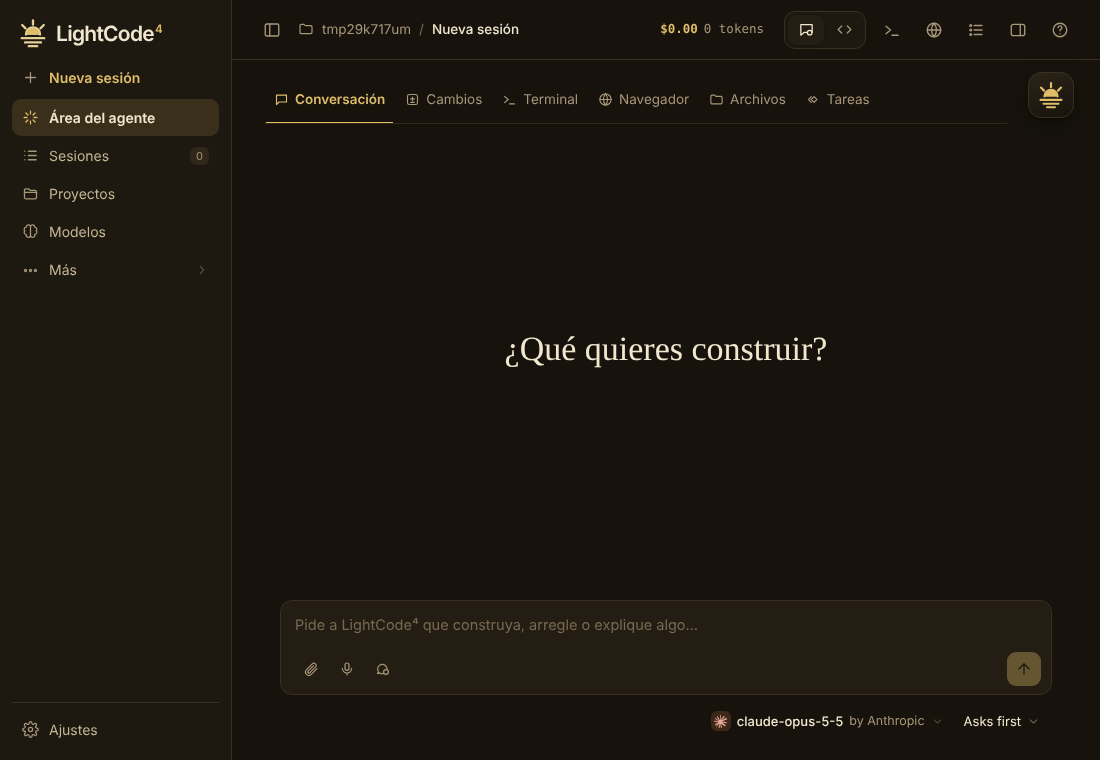
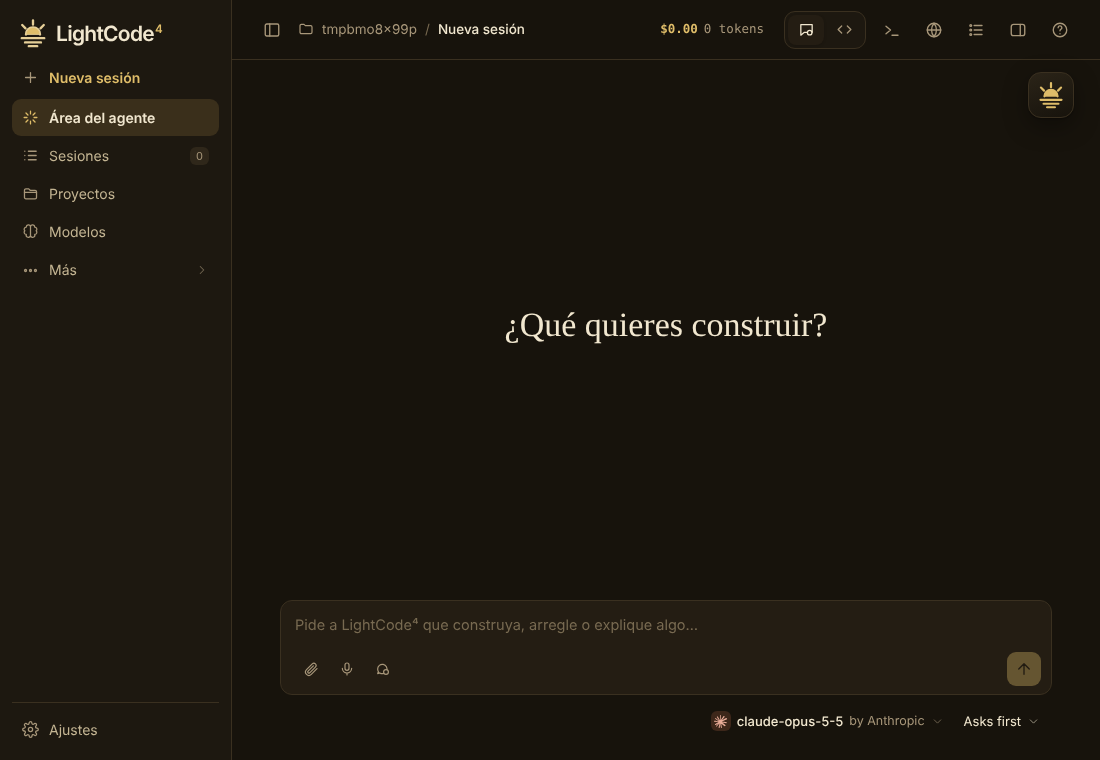
Side panel like the Claude app: conversation stays on the left, Changes/Terminal/Browser/Files/Tasks open in a resizable panel on the right with its own tabs and close button; ⌘. toggles it; first diff shown right away; tidy empty states
Claude-Session: https://claude.ai/code/session_01AvqsqpDFjBC8YmDhkXMhAb

diff --git a/myagent/static/index.html b/myagent/static/index.html
@@ -415,7 +415,7 @@ body:not(.chatting) #scroll { display: none; } body.chatting #welcome { display:
 body:not(.chatting) #dock, #dock { display: flex; }
 #scroll { flex: 1; } .col { max-width: 900px; padding: 0 22px; }
 #panel { display: none; flex: 1; min-height: 0; flex-direction: column; width: auto; max-width: none; min-width: 0; border-left: 0; position: static; }
-body.panel-open #panel { display: flex; } body.panel-open #scroll, body.panel-open #welcome { display: none !important; }
+body.panel-open #panel { display: flex; }
 #dock { border-top: 1px solid var(--line); padding: 12px 16px 10px; flex-direction: column; align-items: stretch; gap: 6px; }
 .composer { max-width: none; border-radius: 12px; box-shadow: none; }
 .send { border-radius: 9px; }
@@ -691,6 +691,28 @@ body.models-open #modelsView { display: block !important; }
 .chips { display: none !important; }
 #welcome .empty { font-size: 34px; }
 #dock { border-top: 0 !important; }
+/* ---- side panel beside the conversation (Claude app layout) ---- */
+body.panel-open .grid { grid-template-columns: minmax(380px, 1fr) var(--pw, 46%); gap: 0; }
+.grid > #panel { display: none; flex-direction: column; min-width: 0; min-height: 0; position: relative; background: var(--panel); border: 1px solid var(--line); border-radius: 16px; overflow: hidden; margin: 6px 0 4px 12px; box-shadow: var(--shadow); }
+body.panel-open .grid > #panel { display: flex; }
+.grid > #panel > .ptabs { display: flex; align-items: center; gap: 2px; padding: 6px 6px 0 10px; border-bottom: 1px solid var(--line-soft); min-height: 46px; overflow-x: auto; scrollbar-width: none; }
+.grid > #panel > .ptabs::-webkit-scrollbar { display: none; }
+.ptabs .tab { flex: none; border: 0; background: none; padding: 8px 10px 9px; font-size: 13px; color: var(--muted); border-bottom: 2px solid transparent; display: flex; gap: 6px; align-items: center; border-radius: 8px 8px 0 0; }
+.ptabs .tab:hover { color: var(--text); background: var(--hover); } .ptabs .tab.on { color: var(--text); border-bottom-color: var(--accent); font-weight: 600; }
+.ptabs .tab svg { width: 15px; height: 15px; } .ptabs .tab em { font-style: normal; font-size: 10.5px; background: var(--line-soft); border-radius: 5px; padding: 0 5px; color: var(--muted); } .ptabs .tab em:empty { display: none; }
+.ptabs #jobCount { background: var(--sun); color: #2b2418; }
+.ptabs #closePanel { margin: 0 2px 4px 4px; flex: none; }
+.grid > #panel > #resizer { position: absolute; left: 0; top: 0; bottom: 0; width: 6px; cursor: col-resize; z-index: 4; }
+.grid > #panel > #resizer:hover, .grid > #panel > #resizer.drag { background: color-mix(in srgb, var(--accent) 35%, transparent); }
+.grid > #panel .pview { flex: 1; min-height: 0; }
+.pempty { flex: 1; display: flex; flex-direction: column; align-items: center; justify-content: center; gap: 6px; padding: 40px 24px; text-align: center; color: var(--muted); }
+.pempty svg { width: 30px; height: 30px; color: var(--faint); margin-bottom: 4px; } .pempty b { color: var(--text); font-size: 14px; font-weight: 600; } .pempty span { font-size: 12.5px; max-width: 300px; line-height: 1.5; }
+body.panel-open #railDock { display: none; }
+body:not(.panel-open) #scroll { padding-right: 58px; }  /* keeps messages clear of the sun button */  /* the panel takes that corner; the overview is back when it closes */
+.grid > #panel .gitbar { flex-wrap: nowrap; gap: 6px; overflow-x: auto; scrollbar-width: none; padding: 8px 10px; }
+.grid > #panel .gitbar::-webkit-scrollbar { display: none; } .grid > #panel .gitbar > * { flex: none; }
+.grid > #panel #gitSync { font-size: 11.5px !important; }
+@media (max-width: 900px) { body.panel-open .grid { grid-template-columns: 1fr; } body.panel-open .chatcard { display: none; } .grid > #panel { margin: 6px 0; } }
 #ctxMeter:not([hidden]) + #send { margin-left: 6px; }
 #side .who { display: none; } #side .who:has(.dot.off) { display: flex; }
 #compbar { display: flex; justify-content: flex-end; align-items: center; gap: 6px; padding: 6px 4px 0; position: relative; }
@@ -872,14 +894,9 @@ body.models-open #modelsView { display: block !important; }
           <span class="spacer"></span><span class="status" id="chatStatus">Ready</span>
 <button class="iconbtn" id="shareBtn" title="Share this session (GitHub gist)" aria-label="Share"><svg viewBox="0 0 24 24"><path d="M4 12v7a2 2 0 0 0 2 2h12a2 2 0 0 0 2-2v-7M16 6l-4-4-4 4M12 2v13"/></svg></button>
           <button class="iconbtn" id="exportBtn" title="Export conversation" aria-label="Export conversation"><svg viewBox="0 0 24 24"><path d="M12 3v12M7 10l5 5 5-5M5 21h14"/></svg></button></div>
-        <nav class="ctabs" role="tablist">
-          <button class="ctab on" data-c="chat"><svg viewBox="0 0 24 24"><path d="M4 5h16v11H8l-4 4z"/></svg>Conversation</button>
-          <button class="ctab" data-c="git"><svg viewBox="0 0 24 24"><rect x="4" y="4" width="16" height="16" rx="3"/><path d="M12 8v6M9 11h6M9 16.5h6"/></svg>Changes<em id="fileCount"></em></button>
-          <button class="ctab" data-c="term"><svg><use href="#i-term"/></svg>Terminal</button>
-          <button class="ctab" data-c="browser"><svg><use href="#i-globe"/></svg>Browser</button>
-          <button class="ctab" data-c="files"><svg><use href="#i-folder"/></svg>Files</button>
-          <button class="ctab" data-c="tasks"><svg viewBox="0 0 24 24"><path d="M8.5 12 13 7.5 17.5 12 13 16.5zM4 12l4.5-4.5M4 12l4.5 4.5"/></svg>Tasks<em id="jobCount" hidden></em></button>
-          <span class="spacer"></span>
+        <nav class="ctabs" role="tablist" hidden>
+          <button class="ctab on" data-c="chat">Conversation</button><button class="ctab" data-c="git">Changes</button><button class="ctab" data-c="term">Terminal</button>
+          <button class="ctab" data-c="browser">Browser</button><button class="ctab" data-c="files">Files</button><button class="ctab" data-c="tasks">Tasks</button>
         </nav>
         <div class="cbody">
           <section id="welcome">
@@ -889,45 +906,6 @@ body.models-open #modelsView { display: block !important; }
             </div>
           </section>
           <div id="scroll"><div class="col"><div id="log" role="log" aria-live="polite" aria-label="Conversation"></div></div></div>
-          <section id="panel">
-            <div class="ptabs" hidden>
-              <button class="tab" data-v="term">Terminal</button><button class="tab" data-v="browser">Browser</button><button class="tab" data-v="git">Git</button>
-              <button class="iconbtn" id="closePanel" aria-label="Close"><svg><use href="#i-x"/></svg></button>
-            </div>
-            <div id="resizer" hidden></div>
-  <div class="pview" data-v="term">
-    <div class="termbar"><span id="termInfo">Terminal</span><span class="spacer"></span><button class="btn small" id="termRestart">New terminal</button></div>
-    <div id="termBox"></div>
-  </div>
-  <div class="pview" data-v="git"><div id="gitView">
-    <div class="gitbar"><select id="gitBranch" title="Switch branch"></select><button class="btn small" id="gitNewBranch">New branch</button>
-      <span class="spacer"></span><span id="gitSync" style="color:var(--muted);font-size:12.5px"></span>
-      <button class="btn small" id="gitPull">Pull</button><button class="btn small" id="gitPush">Push</button><button class="btn small" id="gitPr">Pull request</button>
-      <button class="iconbtn" id="gitRefresh" title="Refresh"><svg viewBox="0 0 24 24"><path d="M20 12a8 8 0 1 1-2.3-5.6M20 4v5h-5"/></svg></button></div>
-    <div id="gitFiles"></div>
-    <pre id="gitDiff">Select a file to see its changes.</pre>
-    <div class="gitcommit"><textarea id="gitMsg" placeholder="Commit message (or ask the agent: /commit)"></textarea><button class="btn primary" id="gitCommit">Commit all</button></div>
-  </div></div>
-  <div class="pview" data-v="files"><div id="filesView">
-    <div class="fbar"><span id="fCrumbs"></span><span class="spacer"></span><span class="livedot" title="Updates as the agent works">Live</span>
-      <button class="iconbtn" id="fRefresh" title="Refresh"><svg viewBox="0 0 24 24"><path d="M20 12a8 8 0 1 1-2.3-5.6M20 4v5h-5"/></svg></button></div>
-    <div class="fsplit"><div id="fTree"></div><div id="fShow"><div class="fhead"><b id="fName">Select a file</b><small id="fMeta"></small><span class="spacer"></span><button class="btn small" id="fEditBtn" hidden>Edit</button><button class="btn small" id="fCancel" hidden>Cancel</button><button class="btn small primary" id="fSave" hidden>Save</button></div><pre id="fBody"></pre><textarea id="fEdit" spellcheck="false" hidden></textarea><div class="err" id="fErr"></div></div></div>
-  </div></div>
-  <div class="pview" data-v="tasks"><div id="tasksView">
-    <div class="fbar"><b>Background tasks</b><span class="spacer"></span><span class="livedot">Live</span></div>
-    <div id="jobList"></div>
-  </div></div>
-  <div class="pview" data-v="browser">
-    <div class="bbar">
-      <button class="iconbtn" data-b="back" title="Back"><svg><use href="#i-undo"/></svg></button>
-      <button class="iconbtn" data-b="forward" title="Forward" style="transform:scaleX(-1)"><svg><use href="#i-undo"/></svg></button>
-      <button class="iconbtn" data-b="reload" title="Reload"><svg viewBox="0 0 24 24"><path d="M20 12a8 8 0 1 1-2.3-5.6M20 4v5h-5"/></svg></button>
-      <input id="burl" spellcheck="false" placeholder="Enter a URL or localhost:3000">
-    </div>
-    <div id="bview" tabindex="0"><span class="agentbadge">Agent is browsing</span><img id="bimg" alt="Browser view" draggable="false">
-      <div id="bempty"><b>LightCode⁴ browser</b>Type a URL above, or ask the agent to open a page. You can click and type here too.<div id="bstatus" style="margin-top:10px"></div></div></div>
-  </div>
-          </section>
         </div>
         <div id="dock">
 <div class="composer" id="composer">
@@ -963,6 +941,49 @@ body.models-open #modelsView { display: block !important; }
           <span id="footMode" hidden></span></div>
         </div>
       </section>
+          <section id="panel">
+            <div class="ptabs" role="tablist" aria-label="Panel">
+              <button class="tab" data-v="git" role="tab" title="Changes (⇧⌘D)"><svg viewBox="0 0 24 24"><rect x="4" y="4" width="16" height="16" rx="3"/><path d="M12 8v6M9 11h6M9 16.5h6"/></svg><span>Changes</span><em id="fileCount"></em></button>
+              <button class="tab" data-v="term" role="tab" title="Terminal (⌘J)"><svg><use href="#i-term"/></svg><span>Terminal</span></button>
+              <button class="tab" data-v="browser" role="tab" title="Browser (⇧⌘B)"><svg><use href="#i-globe"/></svg><span>Browser</span></button>
+              <button class="tab" data-v="files" role="tab" title="Files (⇧⌘F)"><svg><use href="#i-folder"/></svg><span>Files</span></button>
+              <button class="tab" data-v="tasks" role="tab" title="Background tasks (⇧⌘T)"><svg viewBox="0 0 24 24"><path d="M8.5 12 13 7.5 17.5 12 13 16.5zM4 12l4.5-4.5M4 12l4.5 4.5"/></svg><span>Tasks</span><em id="jobCount" hidden></em></button>
+              <span class="spacer"></span>
+              <button class="iconbtn" id="closePanel" title="Close panel (⌘.)" aria-label="Close panel"><svg><use href="#i-x"/></svg></button>
+            </div>
+            <div id="resizer" title="Drag to resize"></div>
+  <div class="pview" data-v="term">
+    <div class="termbar"><span id="termInfo">Terminal</span><span class="spacer"></span><button class="btn small" id="termRestart">New terminal</button></div>
+    <div id="termBox"></div>
+  </div>
+  <div class="pview" data-v="git"><div id="gitView">
+    <div class="gitbar"><select id="gitBranch" title="Switch branch"></select><button class="btn small" id="gitNewBranch">New branch</button>
+      <span class="spacer"></span><span id="gitSync" style="color:var(--muted);font-size:12.5px"></span>
+      <button class="btn small" id="gitPull">Pull</button><button class="btn small" id="gitPush">Push</button><button class="btn small" id="gitPr">Pull request</button>
+      <button class="iconbtn" id="gitRefresh" title="Refresh"><svg viewBox="0 0 24 24"><path d="M20 12a8 8 0 1 1-2.3-5.6M20 4v5h-5"/></svg></button></div>
+    <div id="gitFiles"></div>
+    <pre id="gitDiff">Select a file to see its changes.</pre>
+    <div class="gitcommit"><textarea id="gitMsg" placeholder="Commit message (or ask the agent: /commit)"></textarea><button class="btn primary" id="gitCommit">Commit all</button></div>
+  </div></div>
+  <div class="pview" data-v="files"><div id="filesView">
+    <div class="fbar"><span id="fCrumbs"></span><span class="spacer"></span><span class="livedot" title="Updates as the agent works">Live</span>
+      <button class="iconbtn" id="fRefresh" title="Refresh"><svg viewBox="0 0 24 24"><path d="M20 12a8 8 0 1 1-2.3-5.6M20 4v5h-5"/></svg></button></div>
+    <div class="fsplit"><div id="fTree"></div><div id="fShow"><div class="fhead"><b id="fName">Select a file</b><small id="fMeta"></small><span class="spacer"></span><button class="btn small" id="fEditBtn" hidden>Edit</button><button class="btn small" id="fCancel" hidden>Cancel</button><button class="btn small primary" id="fSave" hidden>Save</button></div><pre id="fBody"></pre><textarea id="fEdit" spellcheck="false" hidden></textarea><div class="err" id="fErr"></div></div></div>
+  </div></div>
+  <div class="pview" data-v="tasks"><div id="tasksView">
+    <div id="jobList"></div>
+  </div></div>
+  <div class="pview" data-v="browser">
+    <div class="bbar">
+      <button class="iconbtn" data-b="back" title="Back"><svg><use href="#i-undo"/></svg></button>
+      <button class="iconbtn" data-b="forward" title="Forward" style="transform:scaleX(-1)"><svg><use href="#i-undo"/></svg></button>
+      <button class="iconbtn" data-b="reload" title="Reload"><svg viewBox="0 0 24 24"><path d="M20 12a8 8 0 1 1-2.3-5.6M20 4v5h-5"/></svg></button>
+      <input id="burl" spellcheck="false" placeholder="Enter a URL or localhost:3000">
+    </div>
+    <div id="bview" tabindex="0"><span class="agentbadge">Agent is browsing</span><img id="bimg" alt="Browser view" draggable="false">
+      <div id="bempty"><b>LightCode⁴ browser</b>Type a URL above, or ask the agent to open a page. You can click and type here too.<div id="bstatus" style="margin-top:10px"></div></div></div>
+  </div>
+          </section>
       <div id="railDock">
       <button id="railFab" title="Run overview — click to open, drag to move, double-click to put it back" aria-label="Run overview" aria-expanded="false" aria-controls="railPop">
         <svg class="sun" viewBox="0 0 64 64" aria-hidden="true"><g fill="none" stroke="currentColor" stroke-width="5" stroke-linecap="round"><path d="M17 35a15 15 0 0 1 30 0M8 43h48M15 52h34M23 60h18M32 5v9M9 15l7 7M55 15l-7 7"/></g><path d="M17 35a15 15 0 0 1 30 0Z" fill="currentColor"/></svg><span class="fdot" id="railFabDot"></span></button>
@@ -1754,10 +1775,13 @@ window.addEventListener("drop", e => { e.preventDefault(); dragDepth = 0; docume
   pop.addEventListener("click", e => { if (e.target.closest("#railModelBtn, #railWsBtn, #railUndo")) openRail(false); });
 })();
 // ---------- Side panel button + Activity panel ----------
-const syncSideBtn = () => { const on = $("railDock").classList.contains("open"); $("sidePanelBtn").classList.toggle("on", on); $("sidePanelBtn").setAttribute("aria-pressed", on); };
-new MutationObserver(syncSideBtn).observe($("railDock"), { attributes: true, attributeFilter: ["class"] });
-$("sidePanelBtn").onclick = e => { e.stopPropagation(); openRail(); };
-document.addEventListener("keydown", e => { if ((e.metaKey || e.ctrlKey) && e.key === ".") { e.preventDefault(); openRail(); } });
+// side panel button (⌘.): shows or hides the work panel beside the conversation, like the Claude app
+const syncSideBtn = () => { const on = document.body.classList.contains("panel-open"); $("sidePanelBtn").classList.toggle("on", on); $("sidePanelBtn").setAttribute("aria-pressed", on);
+  $("sidePanelBtn").title = (on ? "Hide" : "Show") + " side panel (⌘.)"; };
+new MutationObserver(syncSideBtn).observe(document.body, { attributes: true, attributeFilter: ["class"] });
+const togglePanel = () => { if (panelTab) closePanel(); else { if (typeof closeModelsView === "function") { closeModelsView(); closeProjects(); closeUsage(); closeGallery(); } openPanel(lastPanel || "git"); } };
+$("sidePanelBtn").onclick = e => { e.stopPropagation(); togglePanel(); };
+document.addEventListener("keydown", e => { if ((e.metaKey || e.ctrlKey) && e.key === ".") { e.preventDefault(); togglePanel(); } });
 function activityItems() {
   return [...document.querySelectorAll("#log .toolcard, #log .hookrow")].map(c => {
     const badge = c.querySelector(".badge")?.textContent || "", hook = c.classList.contains("hookrow");
@@ -2124,6 +2148,8 @@ async function gitRefresh() {
     st.files.forEach(f => { const r = el("div", "gfile" + (f.path === gitSel ? " on" : ""), `<i class="${f.status}">${f.status[0].toUpperCase()}</i><span></span>`);
       r.querySelector("span").textContent = f.path; r.onclick = () => { gitSel = f.path; gitShow(f.path); gitRefresh(); }; $("gitFiles").appendChild(r); });
     if (gitSel && !st.files.some(f => f.path === gitSel)) { gitSel = null; $("gitDiff").textContent = "Select a file to see its changes."; }
+    if (!gitSel && st.files.length) { gitSel = st.files[0].path; gitShow(gitSel); $("gitFiles").querySelector(".gfile")?.classList.add("on"); }
+    if (!st.files.length) $("gitDiff").innerHTML = '<div class="pempty"><svg viewBox="0 0 24 24"><rect x="4" y="4" width="16" height="16" rx="3"/><path d="M12 8v6M9 11h6M9 16.5h6"/></svg><b>No changes</b><span>Files the agent edits show up here with their differences.</span></div>';
   } catch (e) { $("gitDiff").textContent = e.message; }
 }
 async function gitShow(path) { try { const d = (await git("diff", { path })).diff; $("gitDiff").innerHTML = d ? diffHtml(d) : "(no textual changes)"; } catch (e) { $("gitDiff").textContent = e.message; } }
@@ -2227,8 +2253,10 @@ $("chatList").addEventListener("drop", e => {
 
 // ---------- Side panel ----------
 let panelTab = null, term = null, termId = null, fit = null, browserViewing = false;
+let lastPanel = null;
+try { lastPanel = localStorage.getItem("lc4.panel"); const w = localStorage.getItem("lc4.pw"); if (w) document.documentElement.style.setProperty("--pw", w); } catch (e) {}
 function openPanel(tab) {
-  document.body.classList.add("panel-open"); panelTab = tab;
+  document.body.classList.add("panel-open"); panelTab = tab; lastPanel = tab; try { localStorage.setItem("lc4.panel", tab); } catch (e) {}
   document.querySelectorAll(".ptabs .tab").forEach(b => b.classList.toggle("on", b.dataset.v === tab));
   document.querySelectorAll(".pview").forEach(v => v.classList.toggle("on", v.dataset.v === tab));
   if (tab === "term") startTerm(); setViewing(tab === "browser"); if (tab === "git") gitRefresh();
@@ -2304,7 +2332,7 @@ function renderJobs() {
   if (panelTab !== "tasks") return;
   const list = $("jobList"), keep = {}; list.querySelectorAll(".job").forEach(j => keep[j.dataset.id] = j.querySelector("pre")?.scrollTop);
   list.innerHTML = "";
-  if (!lastJobs.length) { list.appendChild(el("div", "aempty", "No background tasks yet. When the agent starts a server, a build or another long job in the background, it shows up here with its live output.")); return; }
+  if (!lastJobs.length) { list.appendChild(el("div", "pempty", `<svg viewBox="0 0 24 24"><path d="M8.5 12 13 7.5 17.5 12 13 16.5zM4 12l4.5-4.5M4 12l4.5 4.5"/></svg><b>No background tasks</b><span>Servers, builds and other long jobs the agent starts show up here with live output.</span>`)); return; }
   [...lastJobs].reverse().forEach(j => {
     const card = el("div", "job"); card.dataset.id = j.id;
     const mins = Math.max(0, Math.round((Date.now() / 1000 - j.started) / 60));
@@ -2317,12 +2345,15 @@ function renderJobs() {
 let fsTimer = null;
 function onFsChanged() { clearTimeout(fsTimer); fsTimer = setTimeout(() => { if (panelTab === "git") gitRefresh(); if (panelTab === "files") filesRefresh(true); }, 250); }
 $("resizer").onmousedown = e => {
-  e.preventDefault();
-  const move = ev => { const w = Math.min(Math.max(window.innerWidth - ev.clientX, 340), window.innerWidth * .75); document.documentElement.style.setProperty("--pw", w + "px"); fit?.fit(); };
-  const up = () => { window.removeEventListener("mousemove", move); window.removeEventListener("mouseup", up); fit?.fit(); };
+  e.preventDefault(); $("resizer").classList.add("drag");
+  const right = $("panel").getBoundingClientRect().right, gridLeft = document.querySelector(".grid").getBoundingClientRect().left;
+  const move = ev => { const w = Math.round(Math.min(Math.max(right - ev.clientX, 340), right - gridLeft - 380)); document.documentElement.style.setProperty("--pw", w + "px"); fit?.fit(); };
+  const up = () => { window.removeEventListener("mousemove", move); window.removeEventListener("mouseup", up); $("resizer").classList.remove("drag"); fit?.fit();
+    try { localStorage.setItem("lc4.pw", getComputedStyle(document.documentElement).getPropertyValue("--pw").trim()); } catch (err) {} };
   window.addEventListener("mousemove", move); window.addEventListener("mouseup", up);
 };
 new ResizeObserver(() => { if (panelTab === "term") fit?.fit(); }).observe($("termBox"));
+new ResizeObserver(() => { const w = $("panel").getBoundingClientRect().width; if (w) document.documentElement.style.setProperty("--pwpx", Math.round(w) + "px"); }).observe($("panel"));
 
 // Terminal
 async function startTerm() {
@@ -2377,7 +2408,7 @@ const _openPanel = openPanel, _closePanel = closePanel;
 openPanel = function (tab) { _openPanel(tab); setTab(tab); };
 closePanel = function () { _closePanel(); setTab("chat"); };
 function setTab(t) { document.querySelectorAll(".ctab").forEach(b => b.classList.toggle("on", b.dataset.c === t));
-  $("modeChat").classList.toggle("on", t !== "git"); $("modeCode").classList.toggle("on", t === "git"); $("crumbHere").textContent = { chat: $("chatHead").textContent || "New session", git: "Changes", term: "Terminal", browser: "Browser", files: "Files", tasks: "Background tasks" }[t] || "Agent playground"; }
+  $("modeChat").classList.toggle("on", t !== "git"); $("modeCode").classList.toggle("on", t === "git"); $("crumbHere").textContent = $("chatHead").textContent || "New session"; }
 document.querySelectorAll(".ctab").forEach(b => b.onclick = () => b.dataset.c === "chat" ? closePanel() : openPanel(b.dataset.c));
 $("greet").textContent = "Begin, a little brighter.";
 const navSet = (id) => { document.querySelectorAll("aside .navbtn").forEach(b => b.classList.toggle("on", !!id && b.id === id)); };

diff --git a/tests/ui_audit.js b/tests/ui_audit.js
@@ -2,6 +2,11 @@
 const { chromium } = require('playwright');
 const url = process.argv[2];
 const problems = [], passed = [];
+async function tab(pg, t) {
+  if (t === 'chat') { if (await pg.evaluate(() => !!panelTab)) await pg.click('#closePanel'); await pg.waitForTimeout(150); return; }
+  if (!(await pg.isVisible('#panel .ptabs'))) { await pg.click('#sidePanelBtn'); await pg.waitForTimeout(200); }
+  await pg.click(`#panel .ptabs .tab[data-v="${t}"]`); await pg.waitForTimeout(150);
+}
 async function navTo(pg, sel) { if (!(await pg.isVisible(sel))) { await pg.hover('#moreBtn'); await pg.waitForTimeout(300); } await pg.click(sel); }
 const check = (name, ok, detail = '') => (ok ? passed : problems).push(name + (detail ? ' — ' + detail : ''));
 async function overlaps(pg, label) {
@@ -116,7 +121,7 @@ async function overlaps(pg, label) {
       check('Back to Asks first', (await pg.innerText('#modeLabel')) === 'Asks first');
       await pg.click('#termToggle'); check('Terminal button opens the Terminal', await pg.isVisible('#termBox'));
       await pg.click('#browserToggle'); check('Browser button opens the Browser', await pg.isVisible('#bview'));
-      for (const t of ['git', 'term', 'browser', 'chat']) { await pg.click(`.ctab[data-c="${t}"]`); await overlaps(pg, `tab ${t}`); }
+      for (const t of ['git', 'term', 'browser', 'chat']) { await tab(pg, t); await overlaps(pg, `tab ${t}`); }
       // --- right rail
 
       { const fb = await pg.locator('#railFab').boundingBox(); await pg.mouse.move(fb.x + 20, fb.y + 20); await pg.mouse.down(); await pg.mouse.move(fb.x - 300, fb.y + 200, { steps: 8 }); await pg.mouse.up(); await pg.waitForTimeout(200);
@@ -162,30 +167,37 @@ async function overlaps(pg, label) {
       await pg.locator('.hunk input').nth(1).uncheck(); await pg.getByRole('button', { name: 'Apply selected' }).click();
       await pg.waitForFunction(() => document.querySelectorAll('.turnfoot').length >= 2, null, { timeout: 15000 });
       check('Apply selected applies only the chosen change', (await pg.innerText('#log')).includes('Applied 1 of 2'));
-      check('Tabs are named Changes, Terminal, Browser, Files, Tasks', (await pg.innerText('.ctabs')).replace(/\s+/g, ' ').includes('Changes') && (await pg.innerText('.ctabs')).includes('Terminal') && (await pg.innerText('.ctabs')).includes('Browser') && (await pg.innerText('.ctabs')).includes('Files') && (await pg.innerText('.ctabs')).includes('Tasks'));
-      await pg.click('.ctab[data-c="files"]'); await pg.waitForSelector('#fTree .fitem', { timeout: 8000 });
+      await tab(pg, 'git');
+      const pt = await pg.innerText('#panel .ptabs');
+      check('Side panel has Changes, Terminal, Browser, Files and Tasks', ['Changes', 'Terminal', 'Browser', 'Files', 'Tasks'].every(x => pt.includes(x)), pt);
+      check('The conversation stays visible beside the panel', await pg.isVisible('#log') && await pg.isVisible('#composer') && await pg.isVisible('#panel'));
+      check('Changes shows the first diff right away', (await pg.innerText('#gitDiff')).includes('+') && !(await pg.innerText('#gitDiff')).includes('Select a file'));
+      { const g = await pg.locator('.chatcard').boundingBox(), pb = await pg.locator('#panel').boundingBox(); check('Panel sits to the right of the chat', pb.x >= g.x + g.width - 2, JSON.stringify([g.x + g.width, pb.x])); }
+      await overlaps(pg, 'side panel');
+      await tab(pg, 'files'); await pg.waitForSelector('#fTree .fitem', { timeout: 8000 });
       check('Files tab lists the project folder', (await pg.innerText('#fTree')).includes('app.py'));
       await pg.locator('#fTree .fitem', { hasText: 'app.py' }).click(); await pg.waitForTimeout(400);
       check('Clicking a file shows its contents', (await pg.innerText('#fBody')).includes('def total'));
       await overlaps(pg, 'files tab');
-      await pg.click('.ctab[data-c="tasks"]'); await pg.waitForTimeout(400);
+      await tab(pg, 'tasks'); await pg.waitForTimeout(400);
       check('Tasks tab shows background tasks', await pg.isVisible('#jobList') && (await pg.innerText('#jobList')).includes('No background tasks'));
       await overlaps(pg, 'tasks tab');
-      await pg.click('.ctab[data-c="git"]'); await pg.waitForTimeout(500);
+      await tab(pg, 'git'); await pg.waitForTimeout(500);
       check('Changes tab shows changed files', (await pg.innerText('#gitFiles')).includes('app.py'));
-      await pg.click('.ctab[data-c="chat"]'); await pg.waitForTimeout(200);
+      await tab(pg, 'chat'); await pg.waitForTimeout(200);
       // Activity panel and side panel button
       await pg.click('#activityBtn'); await pg.waitForTimeout(250);
       check('Activity panel lists what the agent did', await pg.isVisible('#activityPop') && (await pg.locator('#actList .arow').count()) >= 2, String(await pg.locator('#actList .arow').count()));
       await overlaps(pg, 'activity panel');
       await pg.locator('#actList .arow').first().click(); await pg.waitForTimeout(400);
       check('Clicking a step closes the panel and jumps to it', !(await pg.isVisible('#activityPop')));
+      await tab(pg, 'chat'); await pg.click('#sidePanelBtn'); await pg.waitForTimeout(250);
+      check('Show side panel opens the work panel beside the chat', await pg.isVisible('#panel') && await pg.isVisible('#log') && await pg.evaluate(() => document.getElementById('sidePanelBtn').classList.contains('on')));
+      check('The sun button steps aside while the panel is open', !(await pg.isVisible('#railFab')));
       await pg.click('#sidePanelBtn'); await pg.waitForTimeout(250);
-      check('Show side panel opens the overview', await pg.isVisible('#railPop') && await pg.evaluate(() => document.getElementById('sidePanelBtn').classList.contains('on')));
-      await pg.click('#sidePanelBtn'); await pg.waitForTimeout(250);
-      check('Clicking it again hides it', !(await pg.isVisible('#railPop')));
+      check('Clicking it again hides it', !(await pg.isVisible('#panel')) && await pg.isVisible('#railFab'));
       await pg.keyboard.press('Control+.'); await pg.waitForTimeout(250);
-      check('Ctrl/Cmd+. toggles the side panel', await pg.isVisible('#railPop')); await pg.keyboard.press('Escape'); await pg.waitForTimeout(250);
+      check('Ctrl/Cmd+. toggles the side panel', await pg.isVisible('#panel')); await pg.keyboard.press('Control+.'); await pg.waitForTimeout(250);
       await pg.locator('.umsg').first().hover(); await pg.waitForTimeout(250);
       check('Hovering a message shows Edit and Fork', await pg.locator('.umsg').first().getByRole('button', { name: 'Edit' }).isVisible());
       const before = await pg.innerText('#chatHead');
@@ -216,7 +228,7 @@ async function overlaps(pg, label) {
       check('Ctrl+S saves the file', !(await pg.isVisible('#fEdit')) && (await pg.innerText('#fBody')).includes('# edited by hand'), await pg.innerText('#fErr'));
       await pg.click('#fRefresh'); await pg.waitForTimeout(300); await pg.locator('#fTree .fitem', { hasText: 'app.py' }).click(); await pg.waitForTimeout(400);
       check('The saved change is really on disk', (await pg.innerText('#fBody')).includes('# edited by hand'));
-      await pg.click('.ctab[data-c="chat"]'); await pg.waitForTimeout(200);
+      await tab(pg, 'chat'); await pg.waitForTimeout(200);
       // side chat
       await pg.keyboard.press('Control+;'); await pg.waitForTimeout(250);
       check('Ctrl+; opens the side chat', await pg.isVisible('#sideChat'));

diff --git a/test_gui.js b/test_gui.js
@@ -20,15 +20,15 @@ const { chromium } = require('playwright');
   await pg.waitForFunction(() => document.querySelector('#termBox').innerText.includes('hello from the herness terminal\n') || document.querySelector('#termBox .xterm-rows').innerText.split('hello from the herness terminal').length > 2, null, { timeout: 15000 });
   await pg.screenshot({ path: 'shot-6-terminal.png' });
   // Browser panel: navigate with the URL bar, click inside the page
-  await pg.click('.ctab[data-c="browser"]'); await pg.fill('#burl', process.argv[3]); await pg.press('#burl', 'Enter');
+  await pg.click('#browserToggle'); await pg.fill('#burl', process.argv[3]); await pg.press('#burl', 'Enter');
   await pg.waitForSelector('#bimg[src^="data:"]', { timeout: 30000 }); await pg.waitForTimeout(800);
   const box = await pg.locator('#bimg').boundingBox();
   await pg.mouse.click(box.x + box.width * 0.1, box.y + box.height * 0.27); await pg.waitForTimeout(1500);
   await pg.screenshot({ path: 'shot-7-browser.png' });
   // Git panel
-  await pg.click('.ctab[data-c="git"]'); await pg.waitForSelector('.gfile', { timeout: 10000 });
+  await pg.click('#modeCode'); await pg.waitForSelector('.gfile', { timeout: 10000 });
   await pg.click('.gfile'); await pg.waitForTimeout(500); await pg.screenshot({ path: 'shot-8-git.png' });
-  await pg.click('.ctab[data-c="chat"]');
+  await pg.click('#modeChat');
   // Slash command menu
   await pg.fill('#input', '/re'); await pg.waitForSelector('#cmdMenu.show'); await pg.screenshot({ path: 'shot-9-commands.png' });
   await pg.fill('#input', '');
